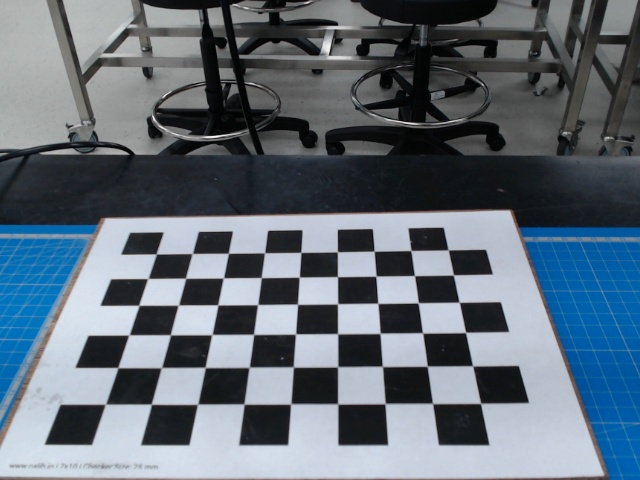
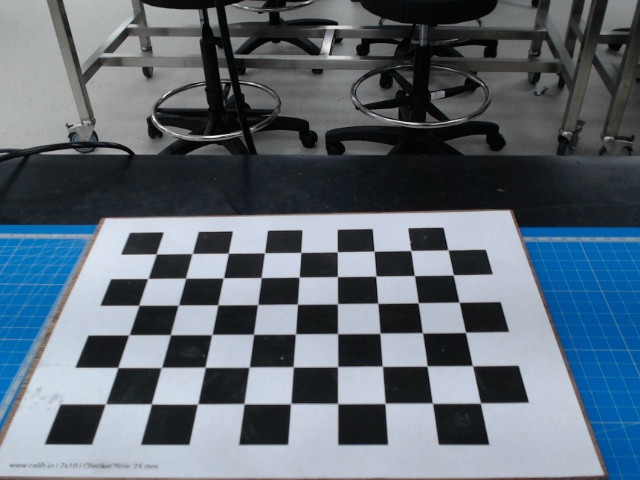
updates

diff --git a/ChessboardCalibration.py b/ChessboardCalibration.py
@@ -5,7 +5,7 @@ import numpy as np
 GRID_SIZE = (6,9)
 # Size of each chessboard square from birds-eye view in pixels
 OUTPUT_SQUARE_SIZE = 100
-STARTING_POINT = np.float32([500,500])
+STARTING_POINT = np.float32([1000,1000])
 BOARD_FILE_PATH = "chessboard.jpg"
 
 chessboardCaptured = False
@@ -39,17 +39,17 @@ if chessboardCaptured:
         cv2.imshow("Corners found", annotatedImg)
         corner = corners.reshape(-1, 2)
         tl = corners[0]
-        tr = corners[GRID_SIZE[1] - 1]
-        bl = corners[-GRID_SIZE[1]]
+        tr = corners[GRID_SIZE[0] - 1]
+        bl = corners[-GRID_SIZE[0]]
         br = corners[-1]
         src_pts = np.float32([tl, tr, br, bl])
 
         tl1 = STARTING_POINT
-        tr1 = STARTING_POINT + np.float32([GRID_SIZE[0]*OUTPUT_SQUARE_SIZE, 0])
-        br1 = STARTING_POINT + np.float32([GRID_SIZE[0]*OUTPUT_SQUARE_SIZE, GRID_SIZE[1]*OUTPUT_SQUARE_SIZE])
-        bl1 = STARTING_POINT + np.float32([0, GRID_SIZE[1]*OUTPUT_SQUARE_SIZE])
+        tr1 = STARTING_POINT + np.float32([0, GRID_SIZE[0]*OUTPUT_SQUARE_SIZE])
+        br1 = STARTING_POINT + np.float32([GRID_SIZE[1]*OUTPUT_SQUARE_SIZE, GRID_SIZE[0]*OUTPUT_SQUARE_SIZE])
+        bl1 = STARTING_POINT + np.float32([GRID_SIZE[1]*OUTPUT_SQUARE_SIZE, 0])
 
-        dst_pts = np.float32([tl1, tr1, br1, bl1])
+        dst_pts = np.float32([br1, bl1, tl1, tr1])
         M = cv2.getPerspectiveTransform(src_pts, dst_pts)
         cornerPts = np.float32([[0,0], [1920, 0], [1920, 1080], [0, 1080]])
         cornerPtsReshaped = np.reshape(cornerPts, (-1, 1, 2))
@@ -64,7 +64,7 @@ if chessboardCaptured:
             print(boundingBox)
             warpedImg = cv2.warpPerspective(frame, M, boundingBox)
             # warpedImg = cv2.rotate(warpedImg, cv2.ROTATE_90_CLOCKWISE)
-            cv2.imshow("Perspective Warp", warpedImg)
+            cv2.imshow("Perspective Warp", cv2.resize(warpedImg, None, fx=0.25, fy=0.25))
         if cv2.waitKey(1) & 0xFF == ord("q"):
             break
 